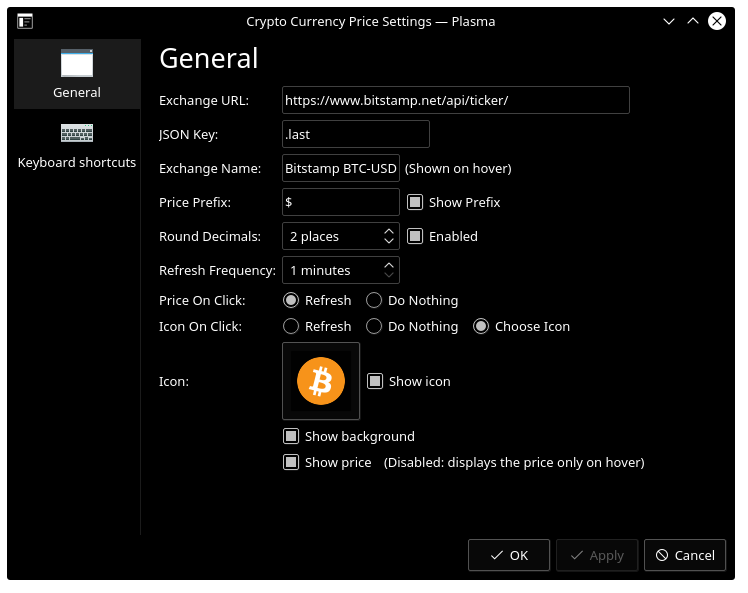
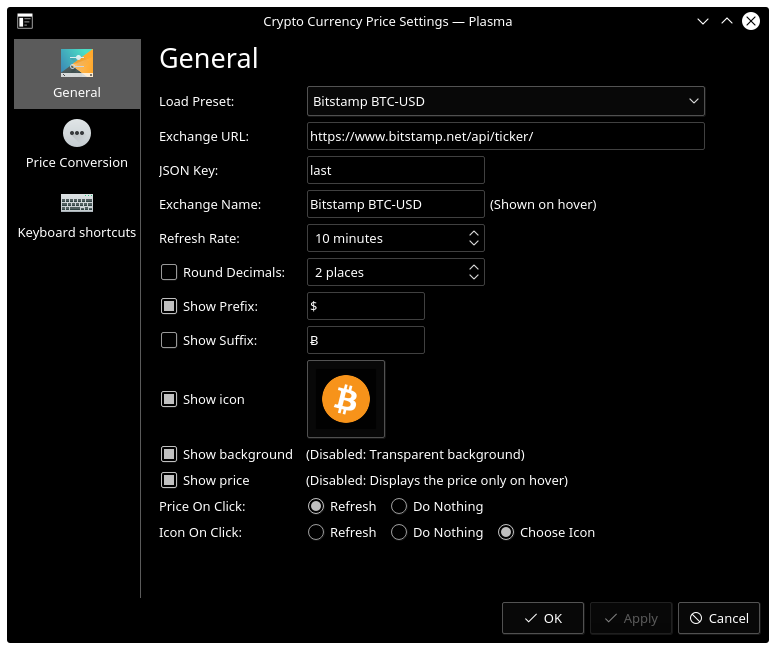
Add files via upload
Update to v1.4

diff --git a/README.md b/README.md
@@ -1,11 +1,7 @@
 # Crypto Currency Price Plasmoid
 
 ## About
-This is a Plasma applet that shows the current price of any cryptocurrency from user definable exchange sources and JSON keys.
-
-Credits to Maciej Gierej, author of several bitcoin applets that this applet is derived from:
-
-https://github.com/MakG10/
+This is a Plasma applet that shows the current price of bitcoin or any other cryptocurrency from user definable exchange sources and JSON keys.
 
 ## Installation
 ```
@@ -15,33 +11,31 @@ plasmapkg2 -i package
 Use additional `-g` flag to install plasmoid globally, for all users.
 
 ## Usage
-Enter the Exchange URL and JSON Key in settings. 
+Choose a preset or enter your preferred Exchange URL and JSON Key (case sensitive) in settings.
 
-JSON keys are case sensitive. 
+Price conversion options can be found in the 'Price Conversion' sub-category.
 
-The tooltip label is shown on hover.
-
-For custom icons, i recommend downloading the respective coin images from coinranking.com.
+For icons, i recommend downloading the respective coin images from coinranking.com.
 
 ### Example 1 - BTC-USD last price on Bitstamp
 Exchange URL: https://www.bitstamp.net/api/ticker/
 
-JSON Key: .last
+JSON Key: last
 
 ### Example 2 - ETH-USD ask price on Kraken
 Exchange URL: https://api.kraken.com/0/public/Ticker?pair=ETHUSD
 
-JSON Key: .result.XETHZUSD.a[0]
+JSON Key: result.XETHZUSD.a.0
 
 ### Example 3 - BTC-ETH last price on Bittrex
 Exchange URL: https://bittrex.com/api/v1.1/public/getticker?market=btc-eth
 
-JSON Key: .result.Last
+JSON Key: result.Last
 
 ### Example 4 - HUSH-USD price on CoinMarketCap
 Exchange URL: https://api.coinmarketcap.com/v1/ticker/hush/
 
-JSON Key: [0].price_usd
+JSON Key: 0.price_usd
 
 ## Screenshots
 ![Crypto Currency Price Plasmoid1](https://raw.githubusercontent.com/spmdrd/plasma-applet-cryptocurrency-price/master/cryptocurrency-price-plasmoid1.png)
@@ -51,6 +45,20 @@ JSON Key: [0].price_usd
 ![Crypto Currency Price Plasmoid (Configuration)](https://raw.githubusercontent.com/spmdrd/plasma-applet-cryptocurrency-price/master/cryptocurrency-price-config.png)
 
 ## Changelog
+
+### 1.4
+- added configuration presets
+- added price conversion options
+-- added option to multiply price by x (e.g. # of coins)
+-- added option to convert base unit to fiat (e.g. btc to usd)
+-- added option to convert from fiat to fiat (e.g. usd to eur)
+- added suffix option to display custom text after the price
+- replaced eval() for json key processing
+-- json key format has changed due to changes in parsing method
+- try to fix invalid/old format json keys with regex
+- migrated getRate function to main qml
+- fixed logic of show text / show icon options
+- some code & ui changes
 
 ### 1.3
 - added option to control # of decimal places
@@ -74,9 +82,10 @@ JSON Key: [0].price_usd
 ### 1.0
 Initial release
 
-## To Do
-- allow converting rate to currency of choice using api (e.g. USD rate to EUR or BTC rate to USD)
-- show additional fields for ask, bid, last in the hover tooltip
+## To-Do
+- user customizable/saveable presets
+- price alarms and notifications
+- portfolio management
 
 ## Donate
 You can buy me a beer if you liked this widget:
